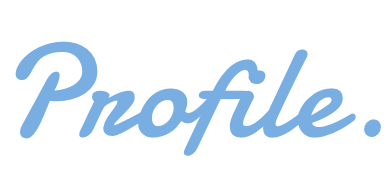
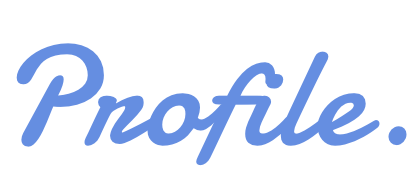
デザイン調整

Changed region(s): [[0.0306, 0.2174, 0.9796, 0.8424]]

diff --git a/css/style.css b/css/style.css
@@ -96,12 +96,12 @@ header css
   display: block;
 }
 #header ul li a:hover {
-  color: #ffb7c5;
+  color: #658ee1;
   -webkit-transition: all .3s;
   transition: all .3s;
 }
 #header ul li a.active    {
-  color: #ffb7c5;
+  color: #658ee1;
 }
 #header nav {
   max-width: 1180px;
@@ -190,8 +190,12 @@ header css
     letter-spacing: 0.16em;
   }
   #header ul li a:hover {
-    color: #000;
-    background: #fff;
+    opacity: 0.7;
+    -webkit-transition: all .3s ease;
+    -moz-transition: all .3s ease;
+    -ms-transition: all .3s ease;
+    -o-transition: all .3s ease;
+    transition: all .3s ease;
   }
   #header .nav__icon,
   #header .nav__icon span {
@@ -263,9 +267,13 @@ header css
 index css ここから
 ====================================== */
 #mv-top {
-  background-image: url(/images/common/bg.png);
+  background-image: url(/images/common/bg-pc.png);
+  background-repeat: no-repeat;
   background-size: cover;
   background-position: 0 90%;
+}
+#mv-top #header {
+  display: none;
 }
 #logo {
   text-align: center;
@@ -303,28 +311,31 @@ index css ここから
   margin: 70px 0 130px;
 }
 .menu li {
-  width: 130px;
-  font-size: 24px;
+  width: 160px;
+  font-size: 28px;
   font-family: 'Noto Sans', sans-serif;
   color: #555;
   padding: 0 20px;
-  letter-spacing: 0.02em;
+  letter-spacing: 0.1em;
 }
 .menu li a{
-  color: #5274bb;
+  color: #658ee1;
   font-weight: bold;
-  letter-spacing: 0.05em;
+  letter-spacing: 0.1em;
 }
 .menu li span{
   color: #5d82e0;
   font-size: 10px;
   display: block;
-  padding: 2px 0 0 0;
+  padding: 4px 0 0 0;
 }
 .menu li a:hover{
-  color: #ffb7c5;
-  -webkit-transition: all .3s;
-  transition: all .3s;
+  opacity: 0.5;
+    -webkit-transition: all .3s ease;
+    -moz-transition: all .3s ease;
+    -ms-transition: all .3s ease;
+    -o-transition: all .3s ease;
+    transition: all .3s ease;
 }
 .fa-user-circle:before, .fa-desktop:before, .fa-palette:before {
   margin-right: 6px;
@@ -360,7 +371,7 @@ profile css ここから
   text-align: justify;
 }
 .profile-text span {
-  color: #79AEE2;
+  color: #658ee1;
   font-size: 24px;
   display: block;
   padding: 1vw 0 20px;

diff --git a/works.html b/works.html
@@ -95,6 +95,22 @@
 					</a>
 				</li>
 				<li>
+						<a href="/works/works-web-04.html">
+							<div class="portfolio web" data-cat="web">
+								<div class="portfolio-wrapper">
+									<img src="/images/works/img-web-comparison.png" alt="" />
+									<div class="label">
+										<div class="label-text">
+											<p class="text-title">ランディングページ</p>
+											<span class="text-category">担当：デザイン/コーディング</span>
+										</div>
+										<div class="label-bg"></div>
+									</div>
+								</div>
+							</div>
+						</a>
+					</li>
+				<li>
 					<a href="/works/works-web-02.html">
 						<div class="portfolio web" data-cat="web">
 							<div class="portfolio-wrapper">
@@ -125,22 +141,6 @@
 							</div>
 						</div>
 						<a>
-				</li>
-				<li>
-					<a href="/works/works-web-04.html">
-						<div class="portfolio web" data-cat="web">
-							<div class="portfolio-wrapper">
-								<img src="/images/works/img-web-comparison.png" alt="" />
-								<div class="label">
-									<div class="label-text">
-										<p class="text-title">ランディングページ</p>
-										<span class="text-category">担当：デザイン/コーディング</span>
-									</div>
-									<div class="label-bg"></div>
-								</div>
-							</div>
-						</div>
-					</a>
 				</li>
 				<li>
 					<a href="/works/works-web-05.html">

diff --git a/css/layout.css b/css/layout.css
@@ -24,6 +24,7 @@ html {
 	text-decoration:none;
 	color:#666;
 	cursor: pointer;
+	font-weight: bold;
 }
 #filters li span:hover{
 	color: #79AEE2;
@@ -31,7 +32,9 @@ html {
     transition: all .3s;
 }
 #filters li span.active {
-	background: #79AEE2;
+	background: -moz-linear-gradient(65deg, #517bdf, #b09fea); 
+  	background: -webkit-linear-gradient(65deg, #517bdf, #b09fea); 
+  	background: linear-gradient(25deg, #517bdf, #b09fea); 
 	color:#fff;	
 } 
 #portfoliolist .portfolio {
@@ -70,7 +73,7 @@ transition:         all 600ms cubic-bezier(0.645, 0.045, 0.355, 1);
 transition:         all 300ms cubic-bezier(0.645, 0.045, 0.355, 1);
 }
 .portfolio .label-bg {
-	background: #79AEE2;
+	background: #517bdf;
 	opacity: 0.7;
 	width: 100%;
 	height:100%;

diff --git a/header.html b/header.html
@@ -3,7 +3,7 @@
 			<ul>
 				<li class="logo-menu"><a href="/index.html"><img src="/images/common/logo-header.png" alt="portfolio"></a></li>
                 <li><a href="profile.html" class="active"><i class="fas fa-user-circle"></i>Profile</a><span>自己紹介</span></li>
-                <li><a href="works.html"><i class="fas fa-desktop"></i>Works</a><span>お仕事</span></li>
+                <li><a href="works.html"><i class="fas fa-desktop"></i>Works</a><span>制作実績</span></li>
                 <li><a href="Illust.htm"><i class="fas fa-palette"></i>Illust</a><span>イラスト</span></li>
 			</ul>
 			<div class="nav__icon">

diff --git a/index.html b/index.html
@@ -38,7 +38,7 @@
     <div class="menu animated fadeIn slower">
         <ul id="menu-top">
             <li><a href="profile.html"><i class="fas fa-user-circle"></i>Profile</a><span>自己紹介</span></li>
-            <li><a href="works.html"><i class="fas fa-desktop"></i>Works</a><span>お仕事</span></li>
+            <li><a href="works.html"><i class="fas fa-desktop"></i>Works</a><span>制作実績</span></li>
             <!-- <li><a href="http://sample.htm">Student</a><span>学生課題</span></li> -->
             <li><a href="http://sample.htm"><i class="fas fa-palette"></i>Illust</a><span>イラスト</span></li>
         </ul>

diff --git a/css/work.css b/css/work.css
@@ -4,7 +4,7 @@
 work css
 ====================================== */
 .fa-arrow-left {
-    color: #79AEE2;
+    color: #658ee1;
     font-size: 16px;
 }
 .fa-arrow-left:hover {
@@ -159,8 +159,8 @@ work css
 }
 .work-text span {
     padding: 2px 10px;
-    color: #79AEE2;
-    border: 1px #79AEE2 solid;
+    color: #658ee1;
+    border: 1px #658ee1 solid;
     margin-right: 15px;
     font-size: 12px;
 }
